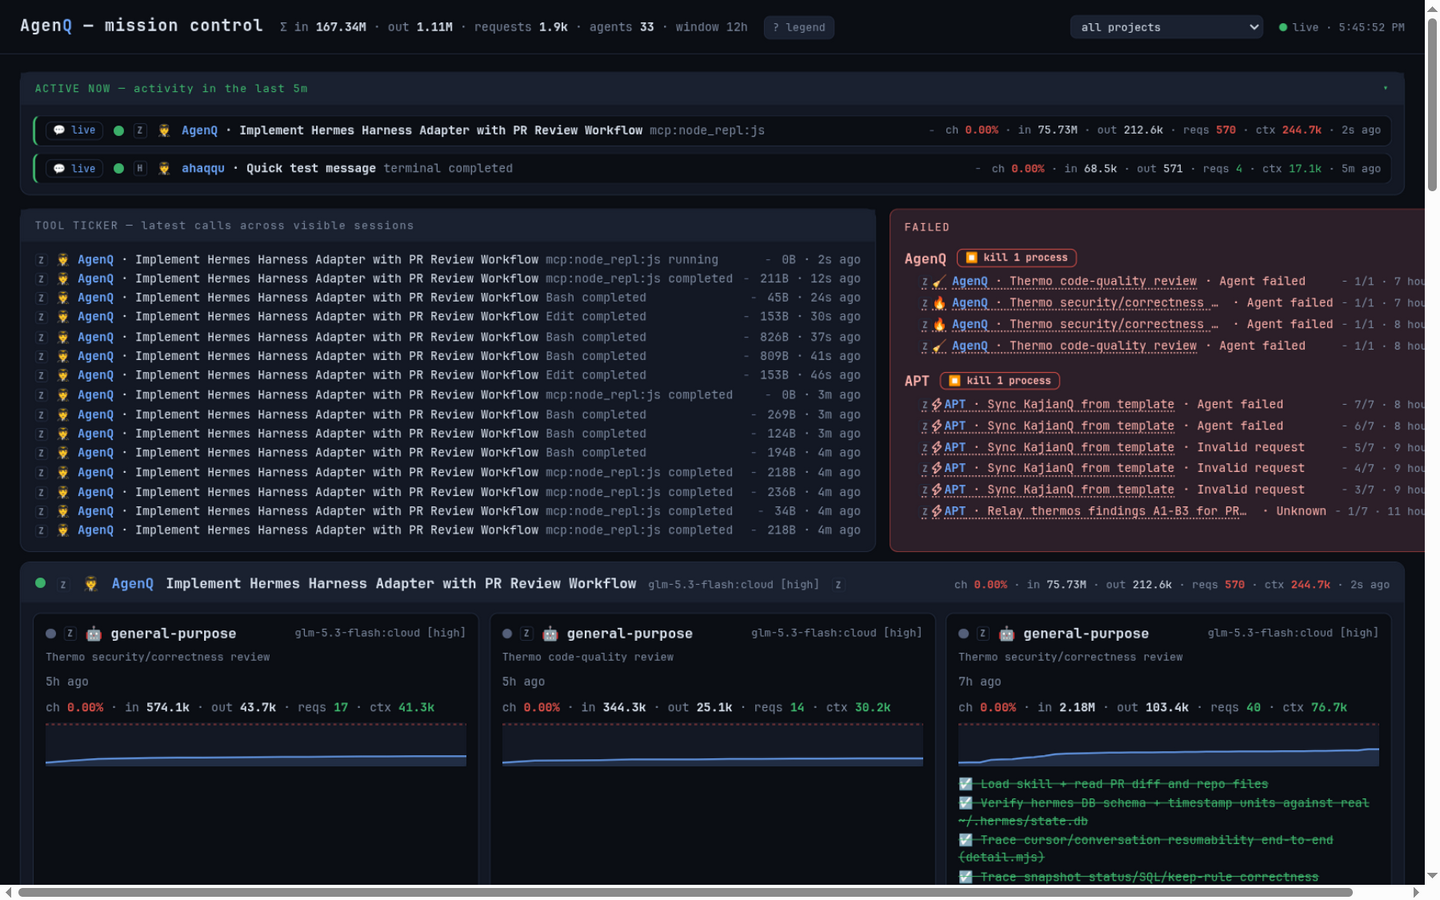
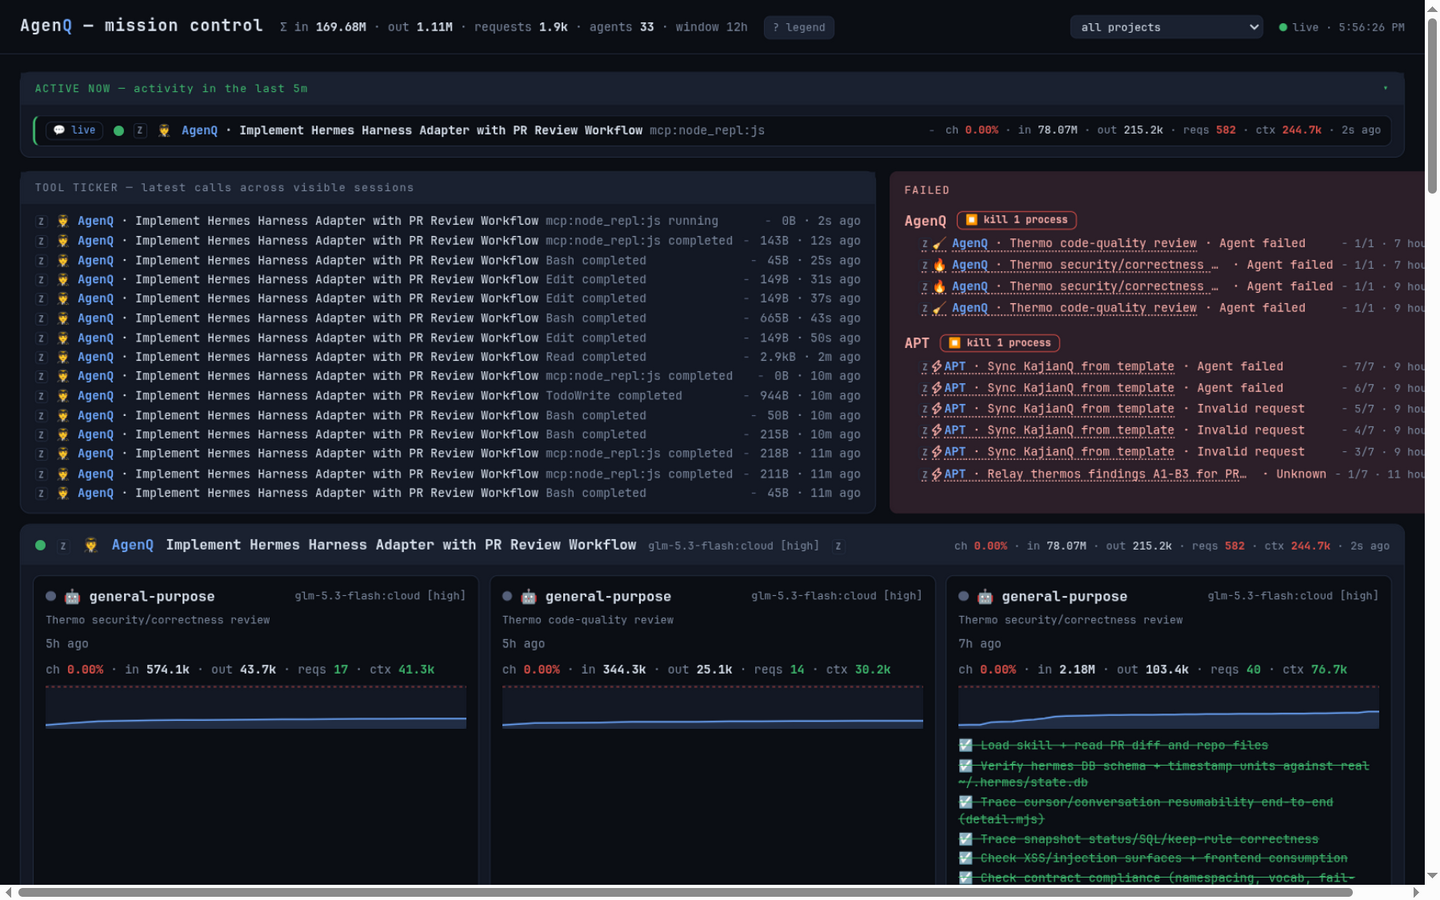
Subagent cards drop the harness letter
Cards under a root inherit the root head's mark — repeating the letter
on every subagent card is noise. Only cards outside a marked section
(the 'other sessions' bucket) still carry their own.

Changed region(s): [[0.0, 0.1556, 1.0, 0.9956]]

diff --git a/public/app.js b/public/app.js
@@ -104,12 +104,15 @@ let flashId = null; // banner click → highlight this card until flashUntil
 let flashUntil = 0;
 const stoppedDirs = new Set(); // projects the user stopped this page-load
 
-function agentCard(s) {
+// showHarness: only for cards outside a marked section (the "other
+// sessions" bucket) — cards under a root inherit the root head's mark,
+// so repeating the letter on every subagent card is noise
+function agentCard(s, showHarness = true) {
   const name = s.role ?? (s.title ? "main" : "session");
   const sparkId = "spark-" + s.id;
   const modelHtml = [s.model, s.thinking && `[${s.thinking}]`].filter(Boolean).join(" ");
   // icon grammar everywhere: status dot → harness mark → role icon → name
-  const harnessBadge = harnessMark(s);
+  const harnessBadge = showHarness ? harnessMark(s) : "";
   // a dead run's failure keeps its red dot but stops pulsing
   const dot = s.status === "failed" && s.live === false ? "exited" : s.status;
   const todoHtml = (s.todos ?? []).slice(0, 8).map((t) =>
@@ -379,12 +382,12 @@ function render(state) {
           ${harnessMark(root)}
           <span class="meta">${statsHtml(root)} · ${root.status === "sleep" ? "💤 " : ""}${ago(root.lastAt)}</span>
         </div>
-        <div class="kids">${kids.map(agentCard).join("") || `<div class="desc" style="padding:6px 4px">no dispatched subagents</div>`}</div>
+        <div class="kids">${kids.map((s) => agentCard(s, false)).join("") || `<div class="desc" style="padding:6px 4px">no dispatched subagents</div>`}</div>
       </div>`);
   }
   const orphans = state.sessions.filter((s) => !seen.has(s.id) && matches(s)).sort(byLast);
   if (orphans.length)
-    sections.push(`<div class="root"><div class="head"><span class="title">other sessions</span></div><div class="kids">${orphans.map(agentCard).join("")}</div></div>`);
+    sections.push(`<div class="root"><div class="head"><span class="title">other sessions</span></div><div class="kids">${orphans.map((s) => agentCard(s, true)).join("")}</div></div>`);
   $("tree").innerHTML = sections.join("");
 
   // re-apply the banner-jump highlight; re-renders would otherwise wipe it
